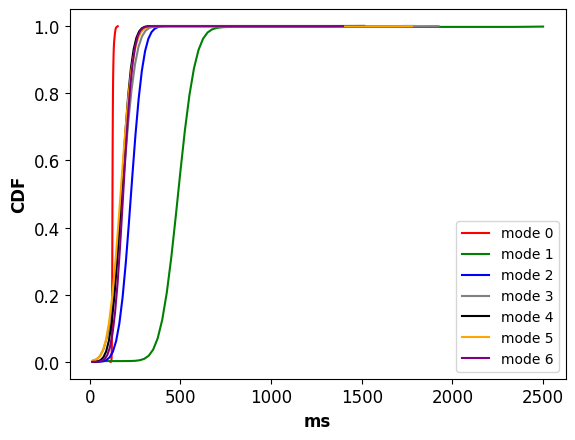
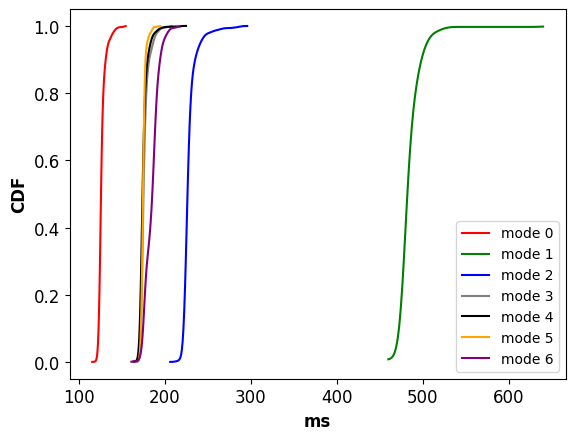
analysis report

diff --git a/liu/Perf-Profiling-Docker-ROS_1/plot_cdf_latency.py b/liu/Perf-Profiling-Docker-ROS_1/plot_cdf_latency.py
@@ -126,7 +126,7 @@ def main():
     plt.xlabel('ms',fontsize=12,fontweight='bold')
     plt.ylabel('CDF', fontsize=12, fontweight='bold')
 
-    # plt.savefig('Xavier-Yolov3-latency.png', bbox_inches = "tight")
+    plt.savefig('Xavier-Yolov3-latency.png', bbox_inches = "tight")
     plt.show()
 
 if __name__ == '__main__':

diff --git a/liu/doc/Docker-ROS-Profiling-Report.md b/liu/doc/Docker-ROS-Profiling-Report.md
@@ -1,0 +1,75 @@
+# Docker ROS Analysis Report
+
+## Overview
+
+With the development of the Internet of things and artificial intelligence, terabytes of data is generated at the edge and needs to be processed in real-time. Edge computing has been proposed to address the latency and bandwidth issues. In this project, we set up experiments with Docker containers and ROS for real-time processing of sensor data. Several ROS applications including object detection, image classification, and handwritten digit classification are deployed to measure the latency, system utilization, and energy consumption of the devices.
+
+## Experiment setup
+
+NVIDIA Jetson AGX Xavier is used to conduct all the experiments. Here are the system configurations of the two Jetson AGX boards used for the experiments. Jetpack is used to flash the host system and we apply RT kernel patches to one of the boards. Inside the AGX board, Docker is used as the running environment for ROS applications.  I built a Docker image with ROS 1.0 running inside.  The versions for CUDA, OpenCV, TensorFlow, and ROS are shown in the above table.
+
+Four ROS applications are set up for the experiments:  YOLO v3 based object detection, MobileNet-SSD v1 based object detection, image classification, and MNIST handwritten digit classification. Besides, several tools are used to collect the logs to measure the latency, CPU/GPU/memory utilization, and energy consumption. The docker stats command is used to get the CPU and memory usage of the running container. NVIDIA Jetson tegrastats is used to collect the usage and frequency of CPU, GPU, memory, etc. 
+
++---------------------------+---------------+--------------------+
+|          Metrics          |  Jetson AGX-1 |    Jetson AGX-2    |
++--------------+------------+---------------+--------------------+
+|              |   Kernel   | 4.9.140-tegra | 4.9.140-rt93-tegra |
+|     Host     +------------+---------------+--------------------+
+|              |   JetPack  |                 4.4                |
++--------------+------------+------------------------------------+
+|              |    CUDA    |                10.2                |
+|              +------------+------------------------------------+
+|              |   OpenCV   |                3.4.0               |
+| Docker image +------------+------------------------------------+
+|              | TensorFlow |               1.15.2               |
+|              +------------+------------------------------------+
+|              |     ROS    |            1.0 (Melodic)           |
++--------------+------------+------------------------------------+
+
+The setup notes can be found at: https://github.com/waggle-sensor/summer2020/tree/master/liu. 
+
+## Yolov3 under different power modes
+
+There are seven power modes in AGX Xavier, the detailed descriptions of power budget, online CPU cores, CPU/GPU maximum frequency, GPU TPC (Texture Processor Cluster), and etc are shown in Table 2. We can find the MAXN mode (mode 0) has the best performance.
+
++--------------------------------+---------------------------------------------------+
+|                                |                        Mode                       |
+|            Property            +--------+------+-------+------+------+------+------+
+|                                |  MAXN  |  10W | 15W * |  30W |  30W |  30W |  30W |
++--------------------------------+--------+------+-------+------+------+------+------+
+|          Power budget          |   n/a  |  10W |  15W  |  30W |  30W |  30W |  30W |
++--------------------------------+--------+------+-------+------+------+------+------+
+|             Mode ID            |    0   |   1  |   2   |   3  |   4  |   5  |   6  |
++--------------------------------+--------+------+-------+------+------+------+------+
+|           Online CPU           |    8   |   2  |   4   |   8  |   6  |   4  |   2  |
++--------------------------------+--------+------+-------+------+------+------+------+
+|   CPU maximal frequency (MHz)  | 2265.6 | 1200 |  1200 | 1200 | 1450 | 1780 | 2100 |
++--------------------------------+--------+------+-------+------+------+------+------+
+|             GPU TPC            |    4   |   2  |   4   |   4  |   4  |   4  |   4  |
++--------------------------------+--------+------+-------+------+------+------+------+
+|   GPU maximal frequency (MHz)  |  1377  |  520 |  670  |  900 |  900 |  900 |  900 |
++--------------------------------+--------+------+-------+------+------+------+------+
+|            DLA cores           |    2   |   2  |   2   |   2  |   2  |   2  |   2  |
++--------------------------------+--------+------+-------+------+------+------+------+
+|      DLA maximal frequency     | 1395.2 |  550 |  750  | 1050 | 1050 | 1050 | 1050 |
++--------------------------------+--------+------+-------+------+------+------+------+
+|            PVA cores           |    2   |   0  |   1   |   1  |   1  |   1  |   1  |
++--------------------------------+--------+------+-------+------+------+------+------+
+|      PVA maximal frequency     |  1088  |   0  |  550  |  760 |  760 |  760 |  760 |
++--------------------------------+--------+------+-------+------+------+------+------+
+| Memory maximal frequency (MHz) |  2133  | 1066 |  1333 | 1600 | 1600 | 1600 | 1600 |
++--------------------------------+--------+------+-------+------+------+------+------+
+
+### end-to-end latency
+
+For YOLO v3 based object detection, the message pipeline of the data sharing demo in ROS is shown in Figure 1. A router is used to collect devices because the transmission of ROS messages across multiple machines requires them to be under the same LAN.
+
+The whole application starts with a ROS node /usb_cam capturing images from the USB camera, then images will be published to the system using ROS messages (called /usb_cam/image_raw). Another ROS node called /darknet_ros is launched which subscribes to the image topic and executes model inference of YOLO v3 model for object detection. The detection results as well as the raw images are published out for the access of other processes or other machines. 
+
+![image](https://github.com/waggle-sensor/summer2020/blob/master/liu/image/pipeline.png)
+
+End-to-End latency is defined as the total time consumption from the start time of capturing an image frame to the end time of getting detection results and publishing the results out. Here we repeated the experiments under different power modes and the CDF of the end-to-end latency is shown in Figure 3. We can find that power mode 0 has the best performance compared with others. 
+
+CDF with Power Modes             |  CDF with USB camera and image file
+:-------------------------:|:-------------------------:
+![](https://github.com/waggle-sensor/summer2020/blob/master/liu/image/yolov3-latency-cdf.png)  |  ![](https://github.com/waggle-sensor/summer2020/blob/master/liu/image/mode0_cdf_usbcam.png)
